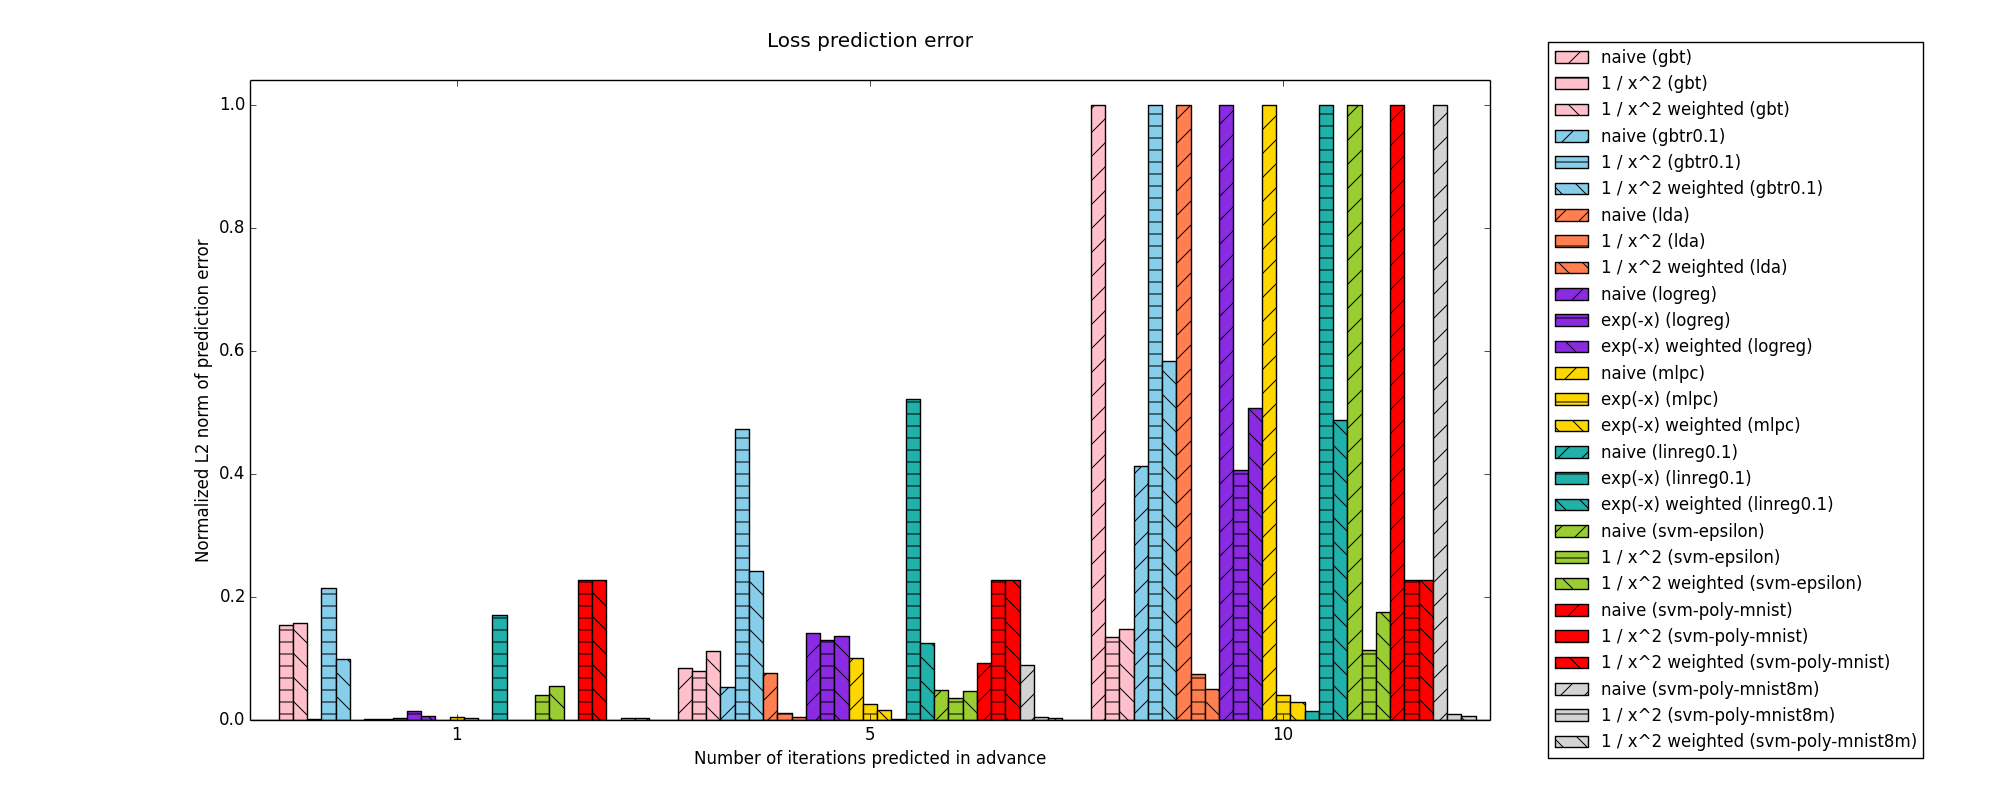
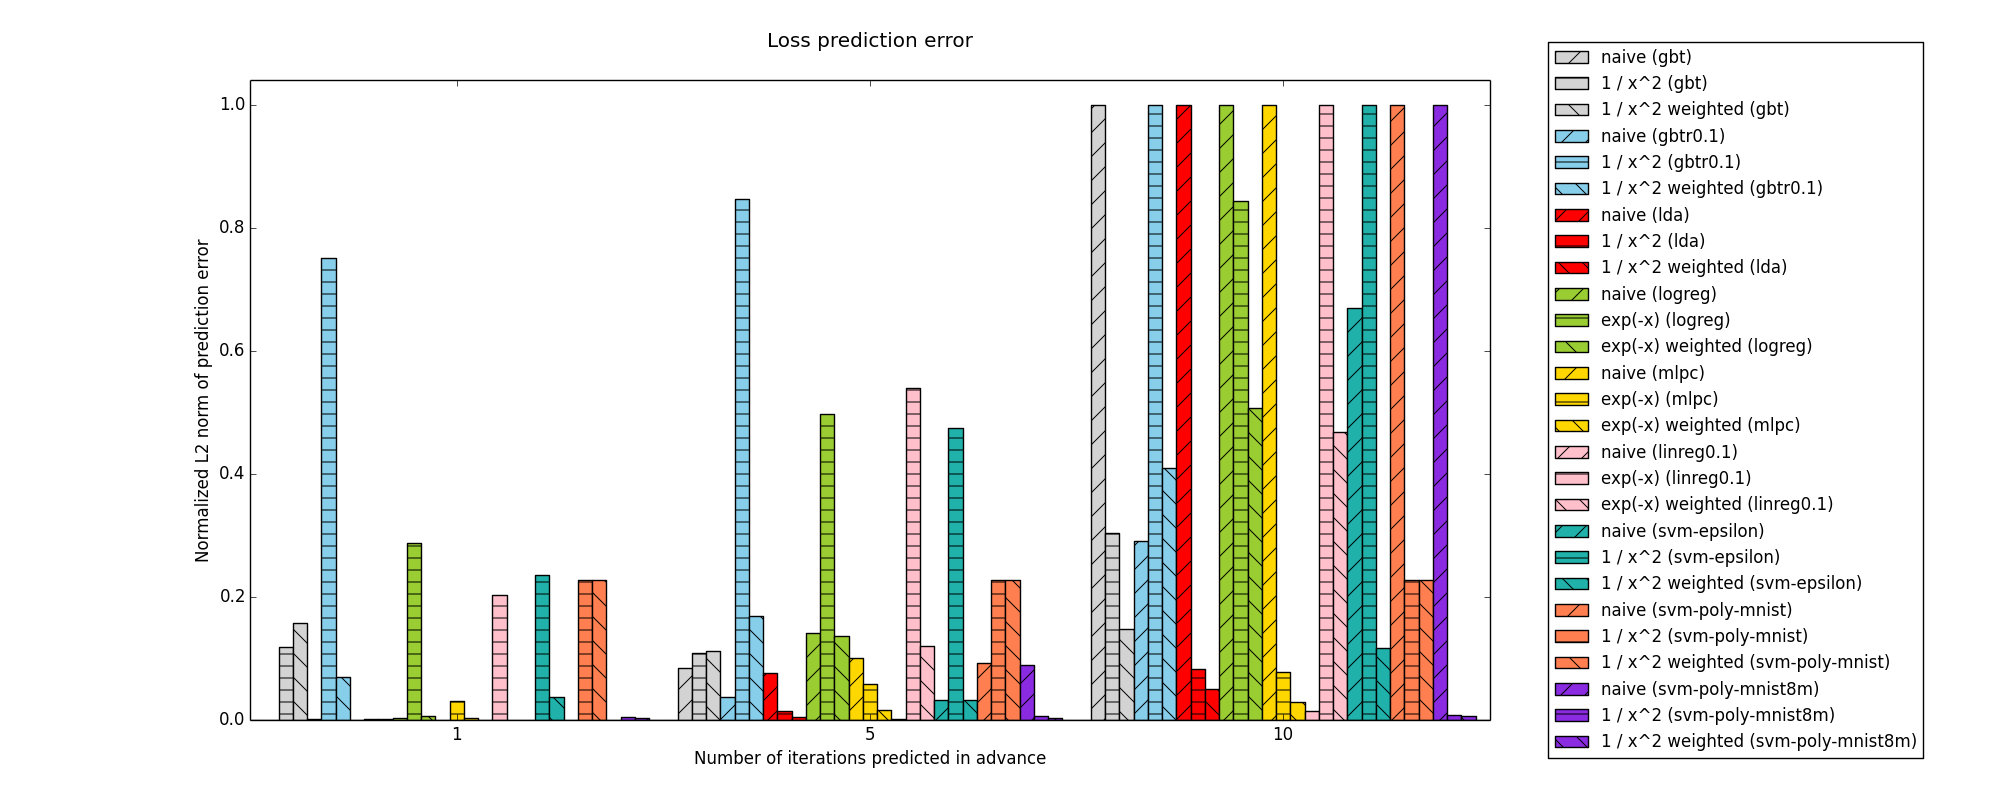
Plot using new logs

diff --git a/plotting/plot_l2.py b/plotting/plot_l2.py
@@ -53,7 +53,7 @@ def main():
   width = 1.0 / num_bars_per_group
   indices = np.arange(3)
   empty = [0, 0, 0]
-  color_cycle = ["pink", "skyblue", "coral", "blueviolet", "gold", "lightseagreen", "yellowgreen", "red", "lightgrey"]
+  color_cycle = ["lightgrey", "skyblue", "red", "yellowgreen", "gold", "pink", "lightseagreen", "coral", "blueviolet"]
 
   # Start plotting
   fig, ax = plt.subplots(figsize=(20, 8))
